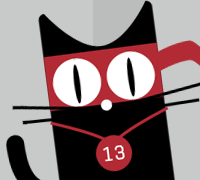
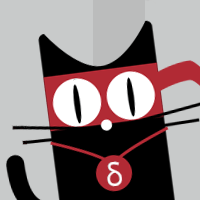
tweak cat

diff --git a/src/graphics.js b/src/graphics.js
@@ -82,8 +82,8 @@ renderCat = (ctx, paws, dead) => {
     ctx.fillStyle = '#fff';
     ctx.textBaseline = 'middle';
     ctx.textAlign = 'center';
-    ctx.font = '4pt Courier';
-    ctx.fillText('13', 0, 7.5);
+    ctx.font = '4pt Verdana';
+    ctx.fillText('δ', 0, 7.5);
 
     // Whiskers
     ctx.lineWidth = 1;
